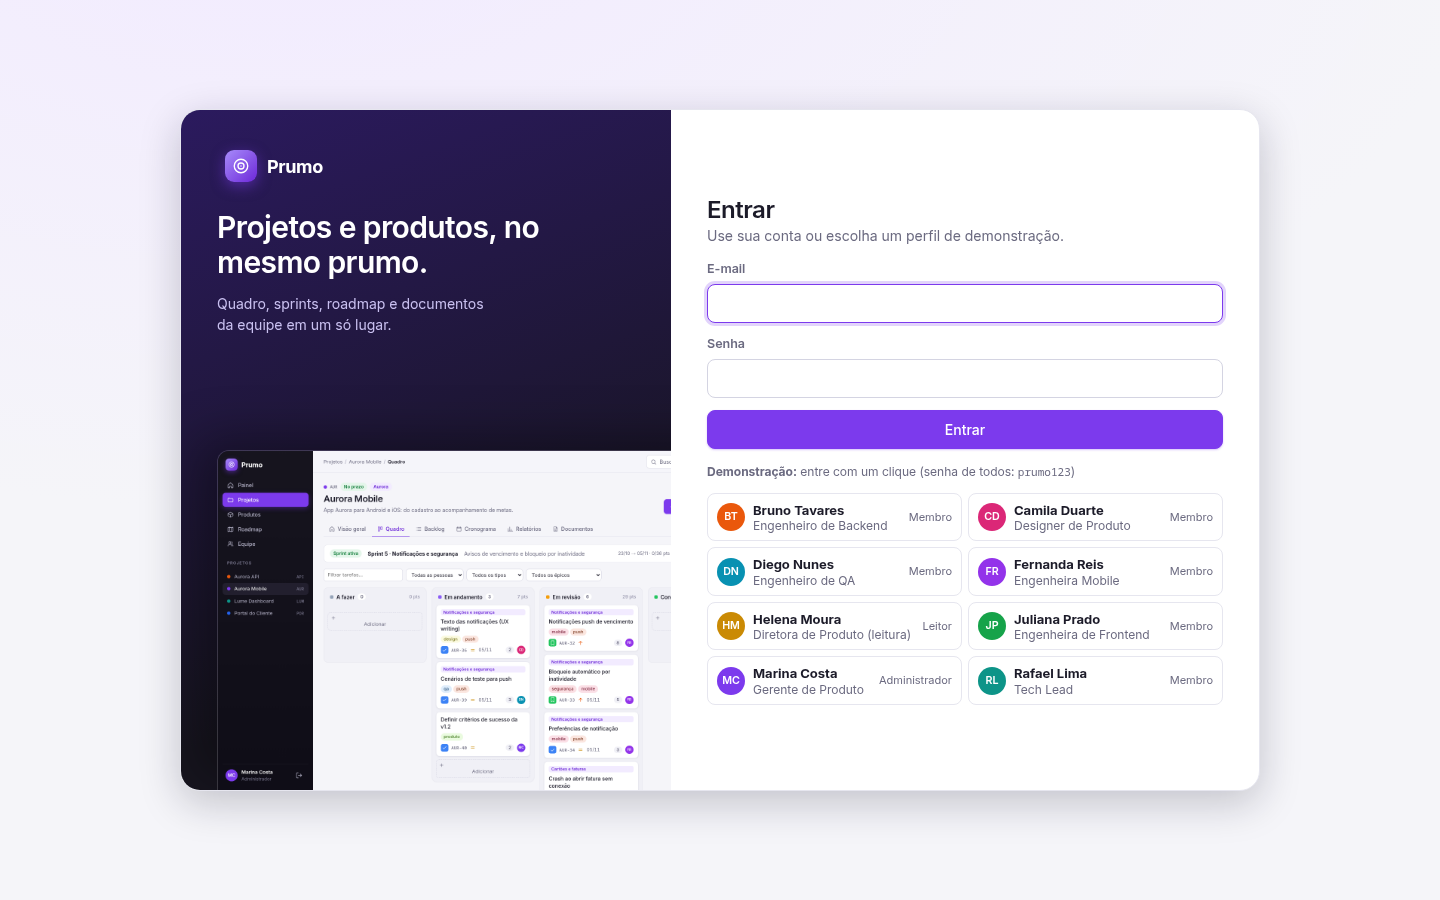
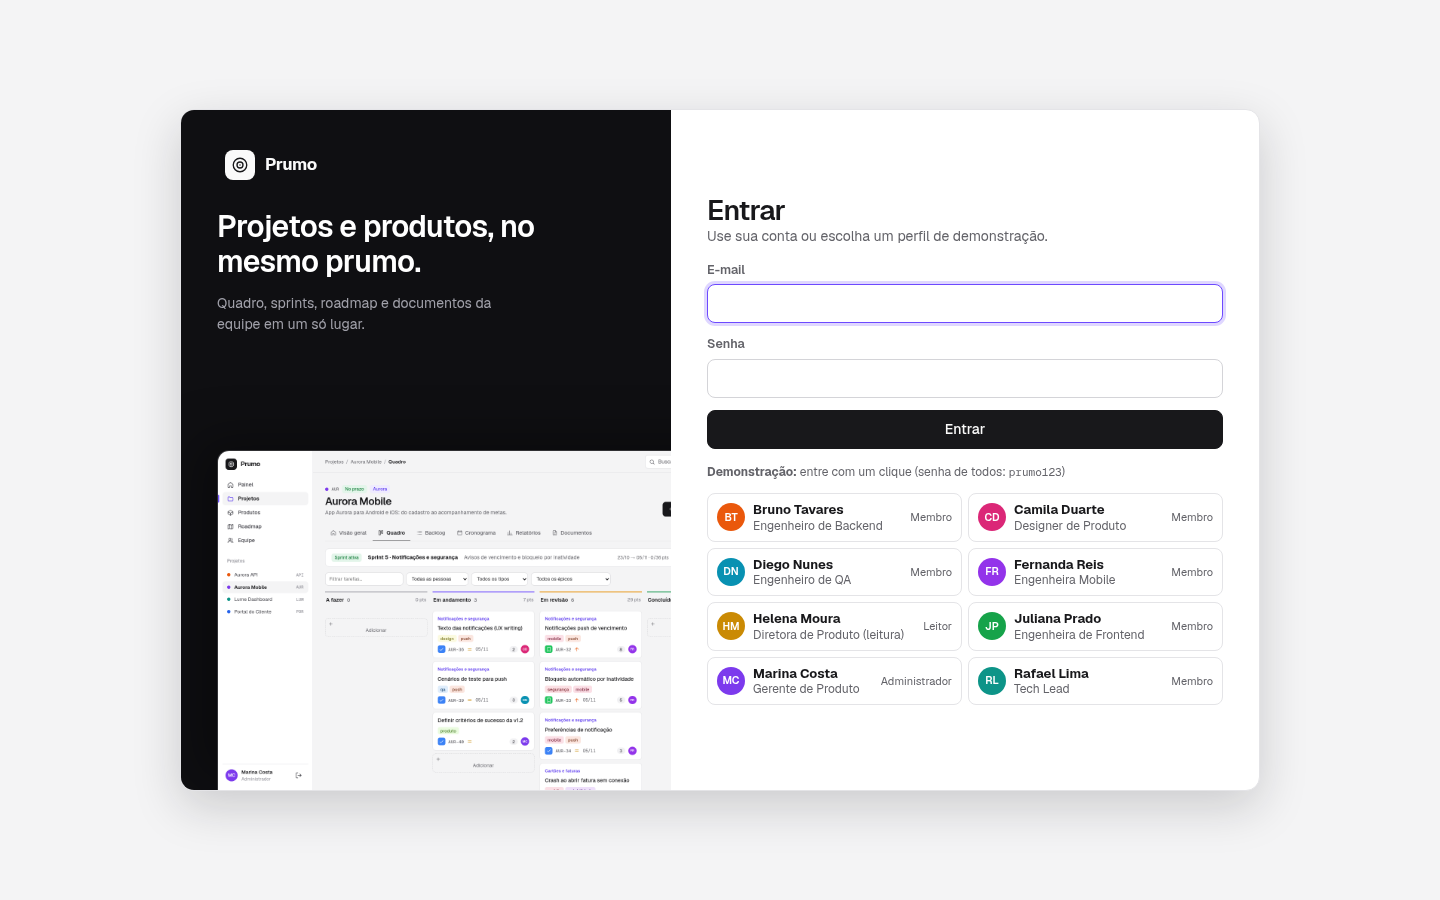
Nova linguagem visual: grafite, sidebar clara, Geist e indicadores em faixa
- Fonte Geist e Geist Mono no lugar do Inter; base zinc com violeta só como destaque
- Barra lateral clara com marcador no item ativo; botão primário em grafite
- Indicadores do painel viram uma faixa única, sem ícones e sem cartões repetidos
- Quadro sem caixas cinza: cada coluna ganha uma linha da cor do status
- Cantos, bordas e sombras unificados; tema escuro reajustado
- Capturas do README refeitas

diff --git a/app/assets/stylesheets/components.css b/app/assets/stylesheets/components.css
@@ -1,25 +1,26 @@
 /* Componentes reutilizáveis */
 .card { background: var(--surface); border: 1px solid var(--border); border-radius: var(--radius); box-shadow: var(--shadow); }
 .card-pad { padding: 18px 20px; }
-.card > header, .card-head { display: flex; justify-content: space-between; align-items: center; gap: 12px; padding: 14px 20px; border-bottom: 1px solid var(--border); }
+.card > header, .card-head { display: flex; justify-content: space-between; align-items: center; gap: 12px; padding: 13px 20px; border-bottom: 1px solid var(--border); }
 .card-body { padding: 16px 20px; }
-.stat { display: flex; align-items: center; gap: 14px; padding: 16px 18px; }
-.stat .ico { display: grid; place-items: center; width: 42px; height: 42px; border-radius: 11px; background: var(--accent-soft); color: var(--accent-text); }
-.stat .ico.ok { background: var(--ok-soft); color: var(--ok); } .stat .ico.warn { background: var(--warn-soft); color: var(--warn); } .stat .ico.danger { background: var(--danger-soft); color: var(--danger); }
-.stat strong { display: block; font-size: 24px; font-weight: 700; letter-spacing: -.02em; line-height: 1.15; font-variant-numeric: tabular-nums; }
-.stat span { color: var(--muted); font-size: 12.5px; }
+.stat { padding: 18px 22px; border-left: 1px solid var(--border); }
+.stat > div { display: grid; gap: 8px; }
+.stat:first-child { border-left: 0; }
+.stat span { order: -1; color: var(--muted); font-size: 13px; }
+.stat strong { display: block; font-size: 34px; font-weight: 600; letter-spacing: -.04em; line-height: 1; font-variant-numeric: tabular-nums; }
+.stat.danger strong { color: var(--danger); }
 
-.btn { display: inline-flex; align-items: center; justify-content: center; gap: 7px; padding: 8px 14px; border: 1px solid var(--accent); border-radius: var(--radius-sm); background: var(--accent); color: #fff; font-weight: 500; cursor: pointer; box-shadow: 0 1px 2px rgba(124, 58, 237, .3); transition: background .12s; white-space: nowrap; }
-.btn:hover { background: var(--accent-2); }
+.btn { display: inline-flex; align-items: center; justify-content: center; gap: 7px; padding: 8px 14px; border: 1px solid var(--ink); border-radius: var(--radius-sm); background: var(--ink); color: var(--on-ink); font-weight: 500; cursor: pointer; transition: background .12s, transform .08s; white-space: nowrap; }
+.btn:active { transform: translateY(1px); }
+.btn:hover { background: var(--ink-2); border-color: var(--ink-2); }
 .btn:disabled { opacity: .5; cursor: not-allowed; }
 .btn-ghost { background: var(--surface); color: var(--text); border-color: var(--border-2); box-shadow: var(--shadow); }
-.btn-ghost:hover { background: var(--surface-3); }
+.btn-ghost:hover { background: var(--surface-3); border-color: var(--border-2); }
 .btn-danger { background: var(--surface); color: var(--danger); border-color: color-mix(in srgb, var(--danger) 40%, var(--border-2)); box-shadow: var(--shadow); }
 .btn-danger:hover { background: var(--danger-soft); }
 .btn-sm { padding: 4px 10px; font-size: 12.5px; }
 .icon-btn { display: grid; place-items: center; width: 34px; height: 34px; border: 0; border-radius: 8px; background: transparent; color: var(--muted); cursor: pointer; }
 .icon-btn:hover { background: var(--surface-3); color: var(--text); }
-.side .icon-btn:hover { background: rgba(255, 255, 255, .08); color: #fff; }
 .link { color: var(--accent-text); font-weight: 500; cursor: pointer; background: none; border: 0; padding: 0; }
 .link:hover { text-decoration: underline; }
 
@@ -39,14 +40,14 @@ input[type=color] { width: 44px; height: 36px; padding: 2px; border: 1px solid v
 .errors ul { margin: 6px 0 0; padding-left: 18px; }
 select.inline-select { width: auto; padding: 4px 24px 4px 8px; font-size: 13px; }
 
-.badge { display: inline-flex; align-items: center; gap: 5px; padding: 2px 9px; border-radius: 999px; font-size: 12px; font-weight: 600; white-space: nowrap; background: var(--surface-3); color: var(--muted); }
+.badge { display: inline-flex; align-items: center; gap: 5px; padding: 2px 8px; border-radius: 6px; font-size: 12px; font-weight: 500; white-space: nowrap; background: var(--surface-3); color: var(--muted); }
 .badge-ok { background: var(--ok-soft); color: var(--ok); } .badge-warn { background: var(--warn-soft); color: var(--warn); } .badge-danger { background: var(--danger-soft); color: var(--danger); } .badge-accent { background: var(--accent-soft); color: var(--accent-text); }
 .chip { display: inline-flex; align-items: center; gap: 6px; padding: 2px 9px; border-radius: 6px; font-size: 12px; font-weight: 600; background: var(--surface-3); color: var(--muted); }
 .chip::before { content: ""; width: 7px; height: 7px; border-radius: 50%; background: currentColor; }
 .chip-todo { color: var(--s-todo); } .chip-doing { color: var(--s-doing); } .chip-review { color: var(--warn); } .chip-done { color: var(--ok); }
 .chip-todo, .chip-doing, .chip-review, .chip-done { background: var(--surface-3); }
 .chip-todo { color: var(--muted); }
-.label-chip { display: inline-block; padding: 1px 8px; border-radius: 999px; font-size: 11.5px; font-weight: 500; background: hsl(var(--h) 80% 93%); color: hsl(var(--h) 55% 32%); }
+.label-chip { display: inline-block; padding: 1px 7px; border-radius: 5px; font-size: 11.5px; font-weight: 500; background: hsl(var(--h) 80% 93%); color: hsl(var(--h) 55% 32%); }
 [data-theme="dark"] .label-chip { background: hsl(var(--h) 35% 22%); color: hsl(var(--h) 80% 80%); }
 .avatar { display: inline-grid; place-items: center; width: var(--size, 26px); height: var(--size, 26px); border-radius: 50%; background: var(--c, var(--accent)); color: #fff; font-size: calc(var(--size, 26px) * .38); font-weight: 600; flex: none; }
 .avatar-empty { background: var(--surface-3); color: var(--faint); border: 1px dashed var(--border-2); }
@@ -56,14 +57,14 @@ select.inline-select { width: auto; padding: 4px 24px 4px 8px; font-size: 13px; 
 .prio { display: inline-grid; place-items: center; flex: none; }
 .prio-urgent { color: #dc2626; } .prio-high { color: #ea580c; } .prio-medium { color: #ca8a04; } .prio-low { color: #64748b; }
 .due { font-size: 12px; color: var(--muted); font-variant-numeric: tabular-nums; } .due-late { color: var(--danger); font-weight: 600; }
-.progress { height: 6px; border-radius: 999px; background: var(--surface-3); overflow: hidden; }
+.progress { height: 4px; border-radius: 999px; background: var(--surface-3); overflow: hidden; }
 .progress i { display: block; height: 100%; border-radius: inherit; background: var(--accent); }
 .progress-ok i { background: var(--ok); }
 .mention { padding: 0 4px; border-radius: 4px; background: var(--accent-soft); color: var(--accent-text); font-weight: 500; }
 
 .table { width: 100%; border-collapse: collapse; }
 .table th, .table td { padding: 10px 16px; text-align: left; vertical-align: middle; border-bottom: 1px solid var(--border); }
-.table th { font-size: 12px; font-weight: 600; color: var(--muted); background: var(--surface-2); white-space: nowrap; }
+.table th { font-size: 12px; font-weight: 500; color: var(--muted); background: transparent; white-space: nowrap; }
 .table tbody tr:last-child td { border-bottom: 0; }
 .table tbody tr:hover { background: var(--surface-2); }
 .table-wrap { overflow-x: auto; }
@@ -75,7 +76,7 @@ select.inline-select { width: auto; padding: 4px 24px 4px 8px; font-size: 13px; 
 .list .title { font-weight: 500; } .list a.title:hover { color: var(--accent-text); }
 
 .project-card { display: block; padding: 18px 20px; border-top: 3px solid var(--pc, var(--accent)); transition: box-shadow .15s, transform .15s; }
-.project-card:hover { box-shadow: var(--shadow-lg); transform: translateY(-2px); }
+.project-card:hover { border-color: var(--ink); }
 .project-card h3 { font-size: 15px; } .project-card .meta { display: flex; justify-content: space-between; align-items: center; margin: 10px 0 6px; color: var(--muted); font-size: 12px; }
 
 .empty { display: grid; justify-items: center; gap: 10px; padding: 56px 20px; text-align: center; border: 1px dashed var(--border-2); border-radius: var(--radius); background: var(--surface); }
@@ -101,12 +102,13 @@ details.disclosure > summary::-webkit-details-marker { display: none; }
 .palette-item small { color: inherit; opacity: .7; }
 .palette-empty { padding: 24px; text-align: center; color: var(--muted); }
 .palette-foot { display: flex; gap: 16px; padding: 8px 14px; border-top: 1px solid var(--border); color: var(--faint); font-size: 12px; }
-.auth-body { display: grid; place-items: center; min-height: 100vh; padding: 24px; background: radial-gradient(1200px 600px at 20% -10%, var(--accent-soft), transparent), var(--bg); }
-.auth { width: min(1080px, 100%); display: grid; grid-template-columns: minmax(0, 5fr) minmax(0, 6fr); border: 1px solid var(--border); border-radius: 20px; overflow: hidden; background: var(--surface); box-shadow: var(--shadow-lg); }
-.auth-pitch { position: relative; padding: 36px 0 0 36px; background: linear-gradient(160deg, #2b1a5e, #17151f 75%); color: #e6e0ff; overflow: hidden; min-height: 680px; }
+.auth-body { display: grid; place-items: center; min-height: 100vh; padding: 24px; background: var(--bg); }
+.auth { width: min(1080px, 100%); display: grid; grid-template-columns: minmax(0, 5fr) minmax(0, 6fr); border: 1px solid var(--border); border-radius: 14px; overflow: hidden; background: var(--surface); box-shadow: var(--shadow-lg); }
+.auth-pitch { position: relative; padding: 36px 0 0 36px; background: #0f0f12; color: #d4d4d8; overflow: hidden; min-height: 680px; }
+.auth-pitch .brand { color: #fafafa; } .auth-pitch .brand-mark { background: #fafafa; color: #18181b; }
 .auth-copy { padding-right: 36px; display: grid; gap: 14px; }
 .auth-pitch h1 { color: #fff; font-size: 30px; line-height: 1.15; letter-spacing: -.02em; max-width: 20ch; }
-.auth-pitch p { margin: 0; color: #c9c0f0; max-width: 32ch; line-height: 1.5; }
+.auth-pitch p { margin: 0; color: #a1a1aa; max-width: 32ch; line-height: 1.5; }
 .auth-shot { position: absolute; left: 36px; bottom: 0; width: calc(100% - 36px + 90px); max-width: none; height: auto; border-radius: 12px 0 0 0; border: 1px solid rgb(255 255 255 / .14); border-right: 0; border-bottom: 0; box-shadow: -20px -10px 50px rgb(0 0 0 / .35); }
 .auth-form { padding: 36px; display: grid; gap: 14px; align-content: center; }
 .demo-list { display: grid; grid-template-columns: repeat(2, minmax(0, 1fr)); gap: 6px; }

diff --git a/app/assets/stylesheets/layout.css b/app/assets/stylesheets/layout.css
@@ -1,29 +1,31 @@
-/* Estrutura: barra lateral escura + coluna principal com barra superior */
+/* Estrutura: barra lateral clara + coluna principal com barra superior */
 .app { display: grid; grid-template-columns: 252px minmax(0, 1fr); min-height: 100vh; }
-.side { position: sticky; top: 0; height: 100vh; display: flex; flex-direction: column; gap: 6px; padding: 16px 12px; background: linear-gradient(180deg, var(--side), #0f0d17); color: var(--side-text); overflow-y: auto; }
-.brand { display: flex; align-items: center; gap: 10px; padding: 4px 8px 14px; color: #fff; }
-.brand-mark { display: grid; place-items: center; width: 32px; height: 32px; border-radius: 9px; background: linear-gradient(135deg, #a78bfa, #6d28d9); box-shadow: 0 4px 14px rgba(124, 58, 237, .5); color: #fff; }
-.brand-name { font-size: 18px; font-weight: 700; letter-spacing: -.02em; }
+.side { position: sticky; top: 0; height: 100vh; display: flex; flex-direction: column; gap: 6px; padding: 16px 12px; background: var(--side); border-right: 1px solid var(--border); color: var(--side-text); overflow-y: auto; }
+.brand { display: flex; align-items: center; gap: 10px; padding: 4px 8px 16px; color: var(--text); }
+.brand-mark { display: grid; place-items: center; width: 30px; height: 30px; border-radius: 8px; background: var(--ink); color: var(--on-ink); }
+.brand-name { font-size: 17px; font-weight: 700; letter-spacing: -.03em; }
 .side-nav { display: grid; gap: 2px; }
-.nav-item { display: flex; align-items: center; gap: 11px; padding: 8px 12px; border-radius: 8px; font-weight: 500; color: var(--side-text); transition: background .12s, color .12s; }
-.nav-item:hover { background: rgba(255, 255, 255, .06); color: #fff; }
-.nav-item.active { background: var(--accent); color: #fff; box-shadow: 0 4px 14px rgba(124, 58, 237, .4); }
-.side-title { margin: 18px 12px 6px; font-size: 11px; font-weight: 600; letter-spacing: .08em; text-transform: uppercase; color: var(--side-muted); }
+.nav-item { position: relative; display: flex; align-items: center; gap: 11px; padding: 7px 12px; border-radius: 8px; font-weight: 500; color: var(--side-text); transition: background .12s, color .12s; }
+.nav-item:hover { background: var(--side-2); color: var(--text); }
+.nav-item.active { background: var(--side-2); color: var(--text); font-weight: 600; }
+.nav-item.active::before { content: ""; position: absolute; left: -12px; top: 7px; bottom: 7px; width: 3px; border-radius: 0 3px 3px 0; background: var(--accent); }
+.nav-item.active .icon { color: var(--accent-text); }
+.side-title { margin: 22px 12px 6px; font-size: 12px; font-weight: 500; color: var(--side-muted); }
 .side-projects { display: grid; gap: 1px; }
 .side-project { display: flex; align-items: center; gap: 10px; padding: 6px 12px; border-radius: 8px; color: var(--side-text); font-size: 13px; }
 .side-project span { flex: 1; min-width: 0; overflow: hidden; text-overflow: ellipsis; white-space: nowrap; }
 .side-project small { color: var(--side-muted); font: 500 11px var(--mono); }
-.side-project:hover { background: rgba(255, 255, 255, .06); color: #fff; }
-.side-project.active { background: var(--side-2); color: #fff; }
+.side-project:hover { background: var(--side-2); color: var(--text); }
+.side-project.active { background: var(--side-2); color: var(--text); font-weight: 600; }
 .dot { width: 9px; height: 9px; border-radius: 50%; background: var(--pc, var(--accent)); flex: none; }
-.side-user { display: flex; align-items: center; gap: 10px; margin-top: auto; padding: 12px 8px 4px; border-top: 1px solid rgba(255, 255, 255, .08); }
+.side-user { display: flex; align-items: center; gap: 10px; margin-top: auto; padding: 12px 8px 4px; border-top: 1px solid var(--border); }
 .side-user > div { flex: 1; min-width: 0; display: grid; }
-.side-user strong { color: #fff; font-size: 13px; font-weight: 600; overflow: hidden; text-overflow: ellipsis; white-space: nowrap; }
+.side-user strong { color: var(--text); font-size: 13px; font-weight: 600; overflow: hidden; text-overflow: ellipsis; white-space: nowrap; }
 .side-user small { color: var(--side-muted); }
 .side .icon-btn { color: var(--side-text); }
 
 .main-col { min-width: 0; display: flex; flex-direction: column; }
-.topbar { position: sticky; top: 0; z-index: 20; display: flex; align-items: center; gap: 12px; padding: 10px 28px; background: color-mix(in srgb, var(--bg) 88%, transparent); backdrop-filter: blur(10px); border-bottom: 1px solid var(--border); }
+.topbar { position: sticky; top: 0; z-index: 20; display: flex; align-items: center; gap: 12px; padding: 10px 32px; background: color-mix(in srgb, var(--bg) 90%, transparent); backdrop-filter: blur(10px); border-bottom: 1px solid var(--border); }
 .crumbs { flex: 1; min-width: 0; display: flex; align-items: center; gap: 6px; color: var(--muted); font-size: 13px; overflow: hidden; white-space: nowrap; }
 .crumbs a:hover { color: var(--text); } .crumbs .sep { color: var(--faint); } .crumbs strong { color: var(--text); font-weight: 600; }
 .search-trigger { display: flex; align-items: center; gap: 8px; min-width: 230px; padding: 7px 10px; border: 1px solid var(--border-2); border-radius: 9px; background: var(--surface); color: var(--muted); cursor: pointer; }
@@ -31,20 +33,20 @@
 .search-trigger span { flex: 1; text-align: left; }
 .menu-btn { display: none; }
 .theme-sun { display: none; } [data-theme="dark"] .theme-sun { display: block; } [data-theme="dark"] .theme-moon { display: none; }
-main { padding: 26px 28px 60px; max-width: 1360px; width: 100%; margin: 0 auto; }
+main { padding: 32px 32px 64px; max-width: 1360px; width: 100%; margin: 0 auto; }
 main.full { max-width: none; }
 
-.page-head { display: flex; justify-content: space-between; align-items: flex-end; gap: 16px; flex-wrap: wrap; margin-bottom: 20px; }
+.page-head { display: flex; justify-content: space-between; align-items: flex-end; gap: 16px; flex-wrap: wrap; margin-bottom: 24px; }
 .page-head p { margin-top: 4px; color: var(--muted); max-width: 70ch; }
 .page-head .eyebrow { display: flex; align-items: center; gap: 8px; margin-bottom: 6px; color: var(--muted); font-size: 12px; font-weight: 500; }
 .tabs { display: flex; gap: 2px; margin: 0 0 20px; border-bottom: 1px solid var(--border); overflow-x: auto; }
 .tab { display: flex; align-items: center; gap: 7px; padding: 9px 14px; margin-bottom: -1px; border-bottom: 2px solid transparent; color: var(--muted); font-weight: 500; white-space: nowrap; }
 .tab:hover { color: var(--text); }
-.tab.active { color: var(--accent-text); border-color: var(--accent); }
+.tab.active { color: var(--text); font-weight: 600; border-color: var(--ink); }
 .grid-2 { display: grid; grid-template-columns: minmax(0, 1.5fr) minmax(0, 1fr); gap: 20px; align-items: start; }
 .grid-3 { display: grid; grid-template-columns: repeat(3, minmax(0, 1fr)); gap: 20px; align-items: start; }
 .grid-cards { display: grid; grid-template-columns: repeat(auto-fill, minmax(300px, 1fr)); gap: 16px; }
-.stats { display: grid; grid-template-columns: repeat(auto-fit, minmax(200px, 1fr)); gap: 16px; margin-bottom: 20px; }
+.stats { display: grid; grid-template-columns: repeat(auto-fit, minmax(180px, 1fr)); margin-bottom: 24px; border: 1px solid var(--border); border-radius: var(--radius); background: var(--surface); overflow: hidden; }
 
 .flash { position: relative; display: flex; justify-content: space-between; align-items: center; gap: 12px; margin-bottom: 16px; padding: 11px 14px; border-radius: var(--radius-sm); border: 1px solid; font-weight: 500; }
 .flash-ok { background: var(--ok-soft); color: var(--ok); border-color: color-mix(in srgb, var(--ok) 30%, transparent); }

diff --git a/app/assets/stylesheets/base.css b/app/assets/stylesheets/base.css
@@ -1,31 +1,33 @@
-/* Tokens, reset e tipografia. Cor de destaque: violeta. Tema escuro via [data-theme="dark"]. */
+/* Tokens, reset e tipografia. Base grafite, violeta só como destaque. Tema escuro via [data-theme="dark"]. */
 :root {
-  --bg: #f5f5f9; --surface: #ffffff; --surface-2: #fafafd; --surface-3: #f0f0f6;
-  --border: #e6e6ef; --border-2: #d4d4e2; --text: #1c1b29; --muted: #6b6a80; --faint: #9b9ab0;
-  --accent: #7c3aed; --accent-2: #6d28d9; --accent-soft: #f2ebff; --accent-text: #6d28d9;
-  --side: #17151f; --side-2: #221f2e; --side-text: #b9b7cc; --side-muted: #7b7990;
-  --ok: #15803d; --ok-soft: #e4f6ea; --warn: #b45309; --warn-soft: #fff3dc; --danger: #b91c1c; --danger-soft: #fdeaea;
-  --s-todo: #94a3b8; --s-doing: #8b5cf6; --s-review: #f59e0b; --s-done: #22c55e;
-  --shadow: 0 1px 2px rgba(20, 18, 40, .05), 0 1px 3px rgba(20, 18, 40, .04); --shadow-lg: 0 12px 40px rgba(20, 18, 40, .22);
-  --radius: 12px; --radius-sm: 8px;
-  --font: "Inter", -apple-system, BlinkMacSystemFont, "Segoe UI", Roboto, "Helvetica Neue", Arial, sans-serif;
-  --mono: ui-monospace, SFMono-Regular, Menlo, Consolas, monospace;
+  --bg: #f4f4f5; --surface: #ffffff; --surface-2: #fafafa; --surface-3: #f1f1f3;
+  --border: #e4e4e7; --border-2: #d4d4d8; --text: #18181b; --muted: #636369; --faint: #8e8e96;
+  --ink: #18181b; --ink-2: #3f3f46; --on-ink: #fafafa;
+  --accent: #6d4aff; --accent-2: #5b38f0; --accent-soft: #efebff; --accent-text: #5b38f0;
+  --side: #ffffff; --side-2: #f4f4f5; --side-text: #3f3f46; --side-muted: #8e8e96;
+  --ok: #157f3b; --ok-soft: #e3f5ea; --warn: #a85a07; --warn-soft: #fdf0d8; --danger: #b4231f; --danger-soft: #fce9e8;
+  --s-todo: #a1a1aa; --s-doing: #6d4aff; --s-review: #e8930c; --s-done: #1f9d55;
+  --shadow: none; --shadow-lg: 0 16px 48px rgba(24, 24, 27, .18);
+  --radius: 10px; --radius-sm: 8px;
+  --font: "Geist", -apple-system, BlinkMacSystemFont, "Segoe UI", Roboto, "Helvetica Neue", Arial, sans-serif;
+  --mono: "Geist Mono", ui-monospace, SFMono-Regular, Menlo, Consolas, monospace;
 }
 [data-theme="dark"] {
-  --bg: #0e0d15; --surface: #16141f; --surface-2: #1a1824; --surface-3: #211f2d;
-  --border: #2a2738; --border-2: #3a3750; --text: #ecebf6; --muted: #9a98b2; --faint: #6f6d86;
-  --accent: #9061f9; --accent-2: #a78bfa; --accent-soft: #272040; --accent-text: #b79bff;
-  --side: #0a0910; --side-2: #17151f;
-  --ok: #4ade80; --ok-soft: #12301f; --warn: #fbbf24; --warn-soft: #382a0c; --danger: #f87171; --danger-soft: #3a1618;
-  --shadow: 0 1px 2px rgba(0, 0, 0, .4); --shadow-lg: 0 12px 40px rgba(0, 0, 0, .6);
+  --bg: #09090b; --surface: #111113; --surface-2: #151518; --surface-3: #1b1b1f;
+  --border: #25252b; --border-2: #36363e; --text: #f4f4f5; --muted: #a1a1aa; --faint: #71717a;
+  --ink: #f4f4f5; --ink-2: #d4d4d8; --on-ink: #09090b;
+  --accent: #8b73ff; --accent-2: #a191ff; --accent-soft: #221d3f; --accent-text: #b4a5ff;
+  --side: #0c0c0e; --side-2: #1b1b1f; --side-text: #c4c4cc; --side-muted: #71717a;
+  --ok: #4ade80; --ok-soft: #10281a; --warn: #fbbf24; --warn-soft: #33260a; --danger: #f87171; --danger-soft: #36171a;
+  --shadow: none; --shadow-lg: 0 16px 48px rgba(0, 0, 0, .6);
 }
 
 * { box-sizing: border-box; }
 html { -webkit-text-size-adjust: 100%; }
-body { margin: 0; background: var(--bg); color: var(--text); font: 400 14px/1.5 var(--font); -webkit-font-smoothing: antialiased; min-height: 100vh; font-feature-settings: "cv11", "ss01"; }
+body { margin: 0; background: var(--bg); color: var(--text); font: 400 14px/1.5 var(--font); -webkit-font-smoothing: antialiased; min-height: 100vh; font-feature-settings: "ss01"; }
 a { color: inherit; text-decoration: none; }
 h1, h2, h3, h4 { margin: 0; font-weight: 600; letter-spacing: -.01em; line-height: 1.25; }
-h1 { font-size: 24px; letter-spacing: -.02em; } h2 { font-size: 16px; } h3 { font-size: 14px; }
+h1 { font-size: 28px; letter-spacing: -.03em; line-height: 1.1; } h2 { font-size: 15px; } h3 { font-size: 14px; }
 p { margin: 0; }
 small, .small { font-size: 12px; color: var(--muted); }
 .muted { color: var(--muted); }

diff --git a/app/assets/stylesheets/board.css b/app/assets/stylesheets/board.css
@@ -3,16 +3,15 @@
 .filters select, .filters input[type=search] { width: auto; min-width: 150px; height: 34px; padding: 0 10px; font-size: 13px; }
 .filters select { padding-right: 28px; cursor: pointer; }
 .board { display: grid; grid-template-columns: repeat(4, minmax(250px, 1fr)); gap: 14px; align-items: start; overflow-x: auto; padding-bottom: 8px; }
-.column { background: var(--surface-3); border: 1px solid var(--border); border-radius: var(--radius); padding: 10px; min-height: 200px; transition: background .12s, border-color .12s; }
-.column.over { background: var(--accent-soft); border-color: var(--accent); }
-.column-head { display: flex; align-items: center; gap: 8px; padding: 4px 6px 10px; font-weight: 600; }
-.column-head .count { padding: 0 7px; border-radius: 999px; background: var(--surface); color: var(--muted); font-size: 12px; }
+.column { padding: 0; min-height: 200px; border-radius: var(--radius); transition: background .12s; }
+.column.over { background: var(--accent-soft); outline: 2px dashed var(--accent); outline-offset: 4px; }
+.column-head { display: flex; align-items: center; gap: 8px; margin-bottom: 10px; padding: 10px 2px 8px; border-top: 2px solid var(--s-todo); font-weight: 600; }
+.column[data-status=doing] .column-head { border-color: var(--s-doing); } .column[data-status=review] .column-head { border-color: var(--s-review); } .column[data-status=done] .column-head { border-color: var(--s-done); }
+.column-head .count { color: var(--muted); font-size: 13px; font-weight: 500; font-variant-numeric: tabular-nums; }
 .column-head .pts { margin-left: auto; color: var(--faint); font-size: 12px; font-weight: 500; }
-.column-head .stripe { width: 9px; height: 9px; border-radius: 3px; background: var(--s-todo); }
-.column[data-status=doing] .stripe { background: var(--s-doing); } .column[data-status=review] .stripe { background: var(--s-review); } .column[data-status=done] .stripe { background: var(--s-done); }
 .cards { display: grid; gap: 8px; min-height: 12px; }
-.card-issue { display: grid; gap: 8px; padding: 11px 12px; border: 1px solid var(--border); border-radius: 10px; background: var(--surface); box-shadow: var(--shadow); cursor: grab; transition: box-shadow .12s, border-color .12s; }
-.card-issue:hover { border-color: var(--accent); box-shadow: 0 4px 14px rgba(124, 58, 237, .15); }
+.card-issue { display: grid; gap: 8px; padding: 12px 13px; border: 1px solid var(--border); border-radius: var(--radius-sm); background: var(--surface); cursor: grab; transition: border-color .12s, transform .12s; }
+.card-issue:hover { border-color: var(--ink); }
 .card-issue.dragging { opacity: .4; cursor: grabbing; }
 .card-issue .t { font-weight: 500; line-height: 1.35; color: var(--text); }
 .card-issue.is-done .t { color: var(--muted); text-decoration: line-through; text-decoration-color: var(--faint); }
@@ -56,3 +55,5 @@
 .comment .who { display: flex; align-items: center; gap: 8px; margin-bottom: 4px; font-size: 13px; }
 .comment .who small { margin-left: auto; }
 @media (max-width: 1000px) { .issue-page { grid-template-columns: minmax(0, 1fr); } .sprint-form { grid-template-columns: minmax(0, 1fr); } }
+
+.column-head .stripe { display: none; }
